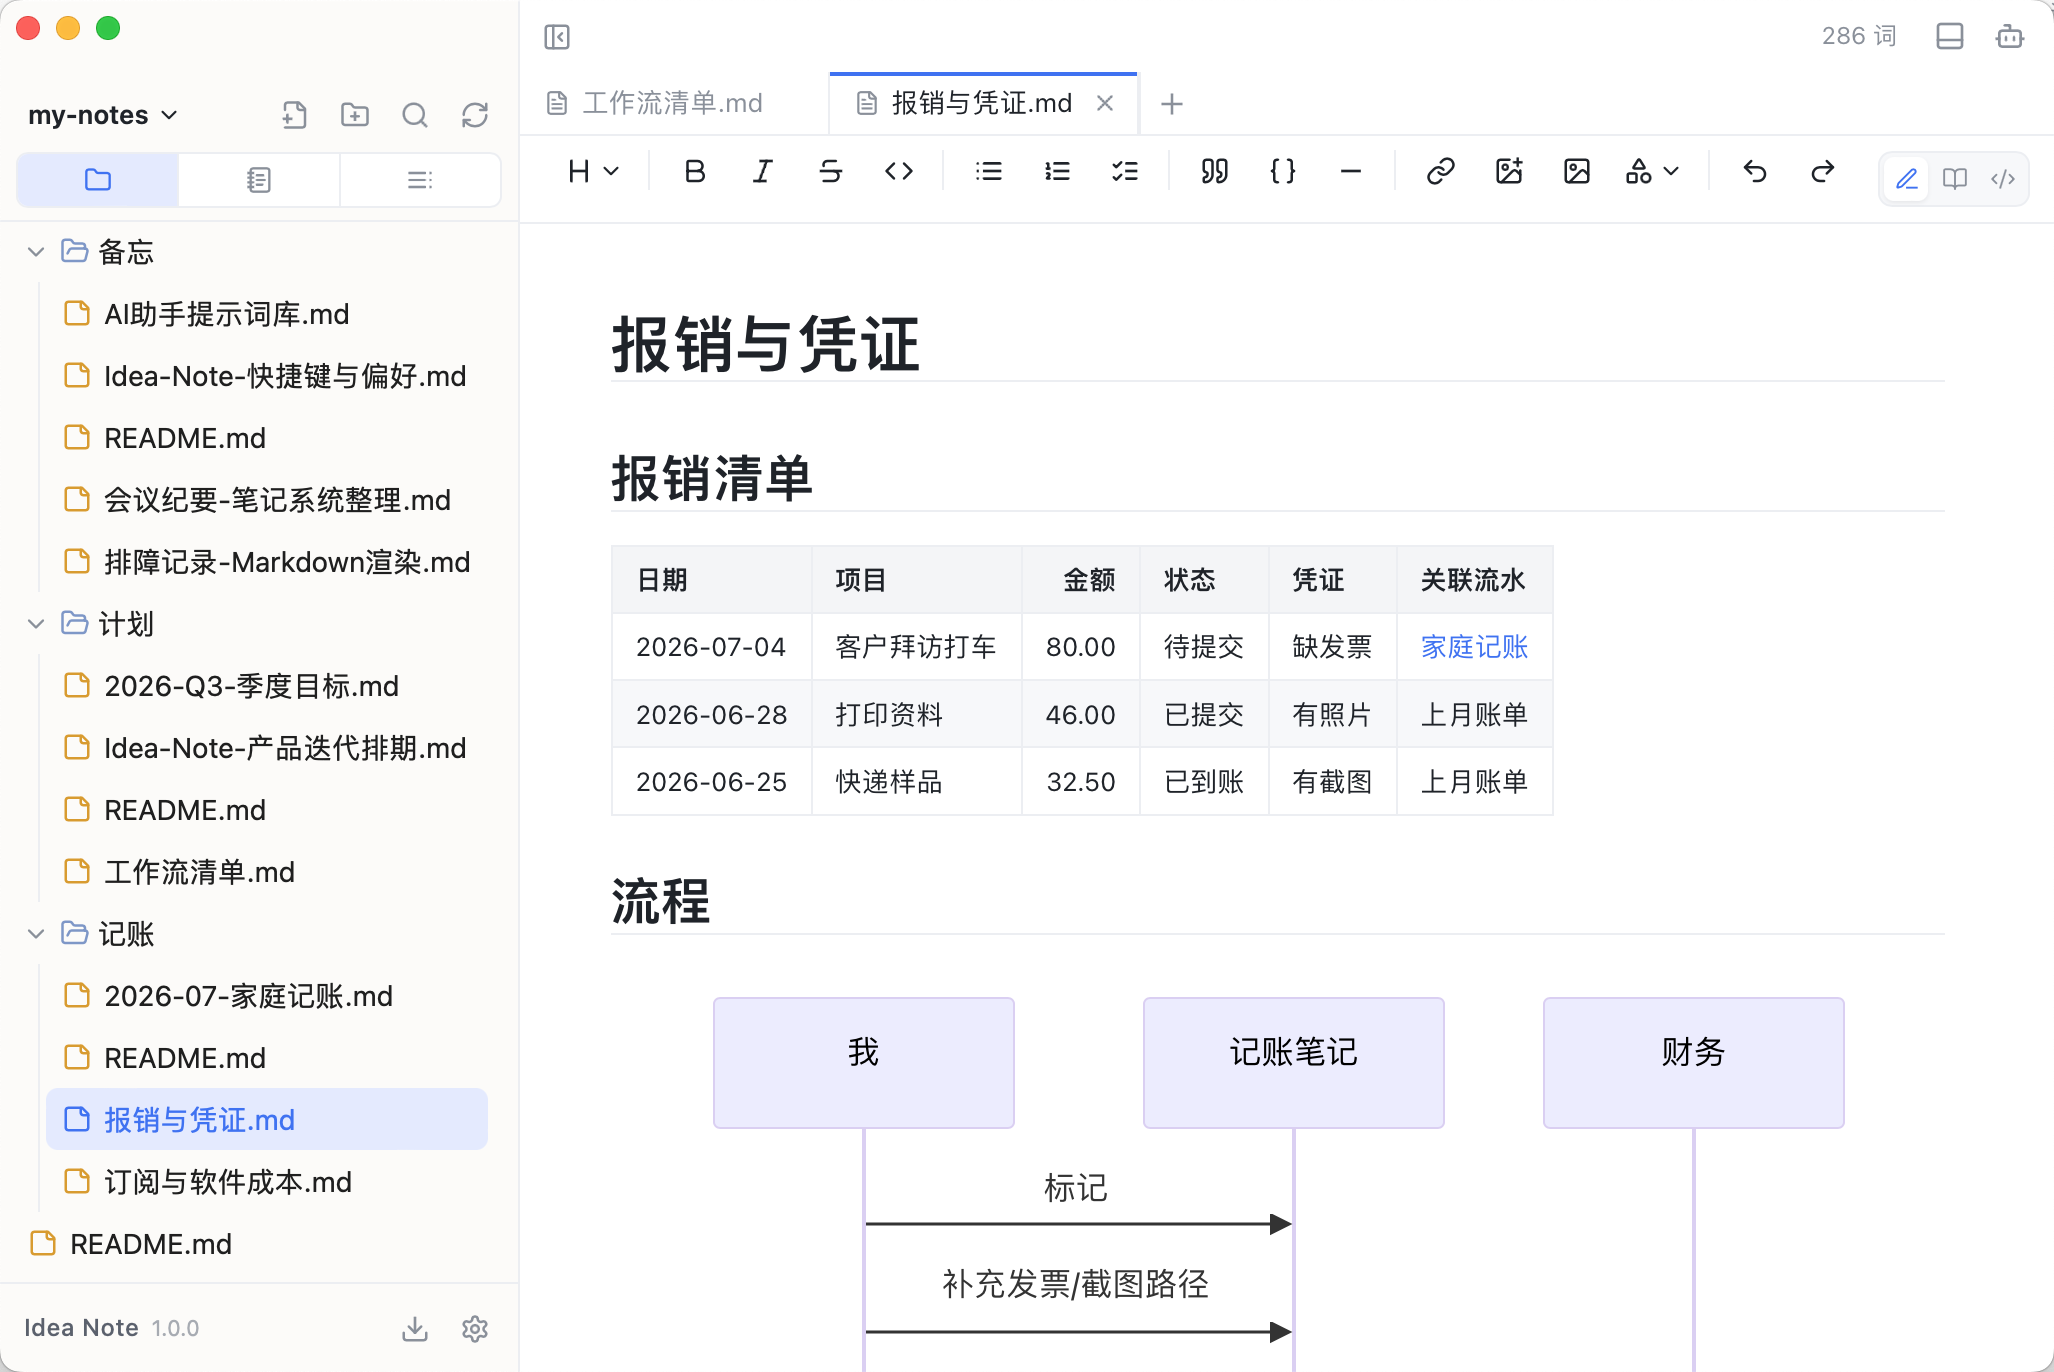
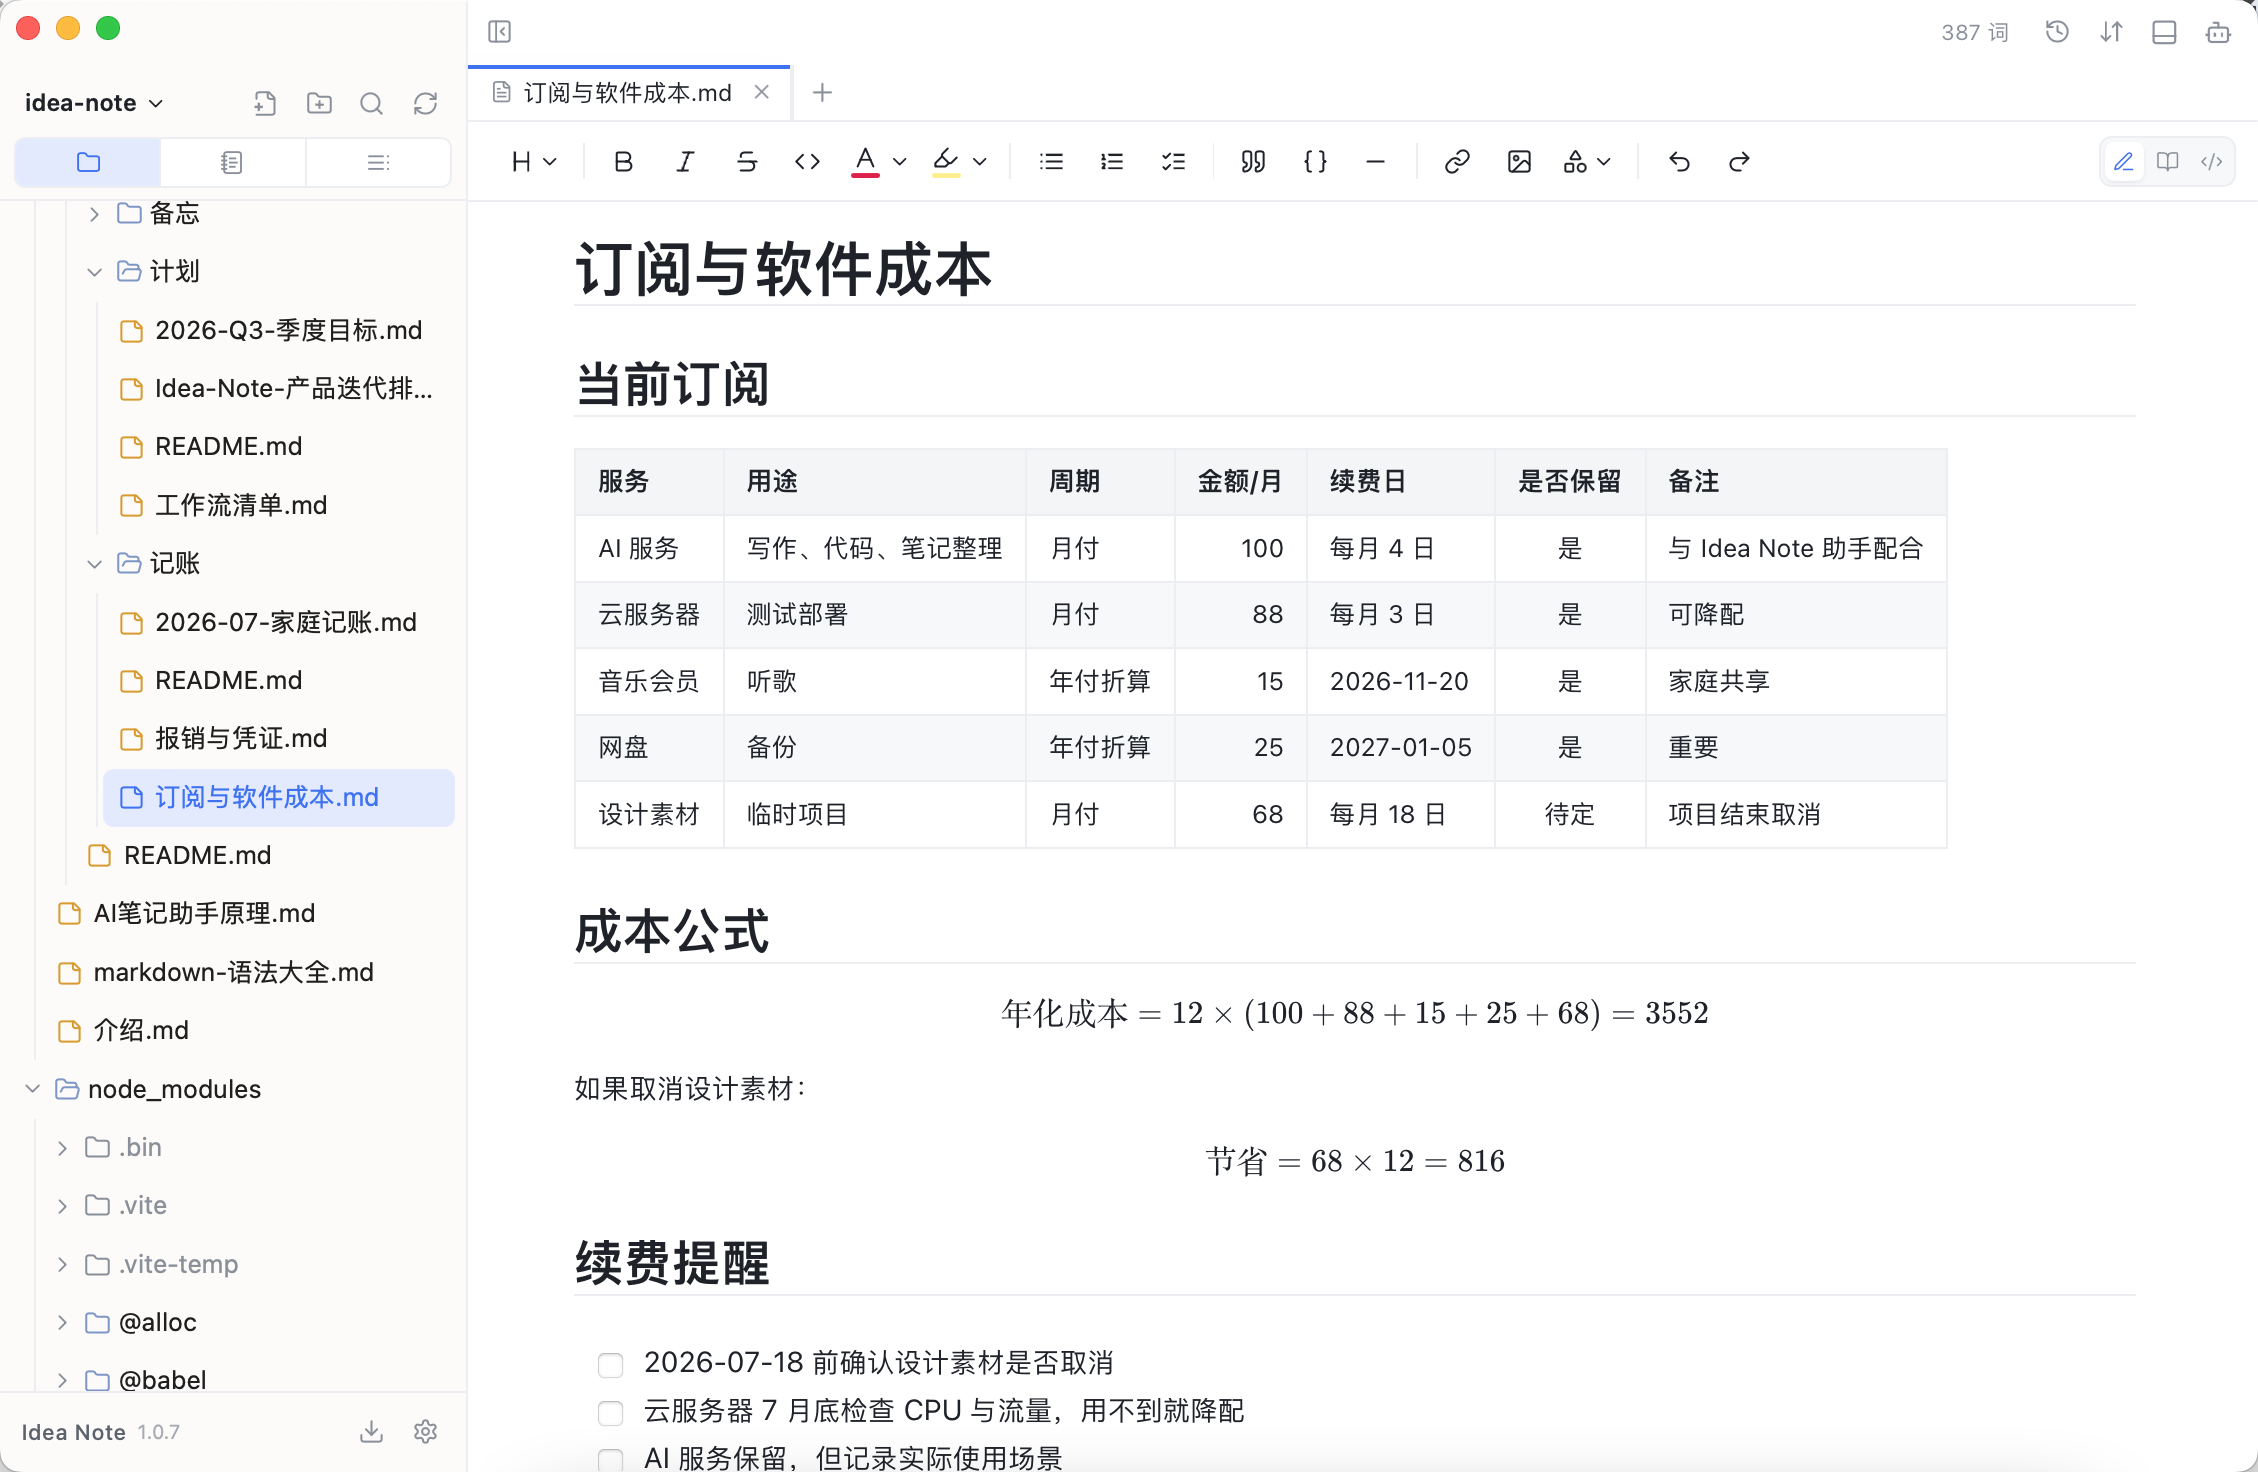
docs: 更新README介绍与示例图片

diff --git a/README.md b/README.md
@@ -14,11 +14,7 @@
   <a href="https://github.com/Liubsyy/idea-note/releases"><img src="https://img.shields.io/github/downloads/Liubsyy/idea-note/total?style=flat-square&logo=github&label=downloads&color=10b981" alt="Total downloads" /></a>
 </p>
 
-**Idea Note** 是一款轻量、简洁的所见即所得 **Markdown** 笔记应用，内置 **AI 笔记助手**，可用自然语言编辑你的笔记，支持**Git远程同步**，兼容 Windows、MacOS 和 Linux 平台。
-
-
-主界面效果图：
-
+**Idea Note** 是一款轻量简洁的文件编辑器，包含 **Markdown** 编辑器、文件编辑器、 **AI 笔记助手**，支持**Git远程同步**，兼容 Windows、MacOS 和 Linux 平台。
 
 
 ![](./doc/assets/sample1.png)
@@ -26,22 +22,15 @@
 
 
 
-AI 笔记助手效果图：
-
-
-![](doc/assets/sample2.png)
-
 
 ## 功能特性
 
-- **AI 笔记助手**：可结合当前笔记进行问答、总结、润色，并通过工具直接读取、搜索、新建、编辑或删除笔记。
-- **Markdown 编辑**：所见即所得实时预览，支持 CommonMark + GFM、KaTeX 公式、Mermaid 图表、HTML / SVG 渲染、源码模式、多标签页和格式工具栏。
-- **文件管理**：除markdown外还可管理其他文件，可作为轻量级项目文件管理器，支持文件树、文件夹浏览、普通文本编辑和图片查看。
-- **笔记管理**：提供笔记模式、大纲和全局搜索，方便整理、定位和回看内容。
+- **Markdown 编辑器**：所见即所得实时预览，支持 CommonMark + GFM、KaTeX 公式、Mermaid流程图、HTML / SVG 渲染、源码模式、多标签页和格式工具栏。
+- **文件管理**：除markdown外还可编辑其他文本文件，可作为轻量级项目文件管理器。
+- **AI 笔记助手**：用自然语言对当前笔记进行问答、总结、润色，并通过工具直接读取、搜索、新建、编辑或删除笔记。
 - **Git 同步与历史**：支持自动提交、远程推拉、本地版本记录、单文件 / 全局历史和 diff 对比。
 - **内置终端**：集成终端，可在应用内直接执行命令。
-- **导出与系统集成**：可导出带书签大纲的 PDF，支持系统级“打开方式”关联常见文本、代码与图片文件。
-- **其他特性**：支持切换主题和自定义主题、自定义字体字号间距。
+- **其他特性**：支持PDF导出和打印、切换主题、自定义字体字号间距。
 
 ## 使用说明
 
@@ -90,6 +79,12 @@ Markdown 语法的完整支持范围可参考 [doc/markdown-语法大全.md](./d
 ### AI 笔记助手
 
 点击标题栏机器人图标打开 AI 笔记助手面板。在设置中添加模型服务即可使用：支持 Anthropic、OpenAI 以及任何兼容两者接口的服务（自定义 Base URL、API Key 和模型 ID），对话中可随时切换模型与思考级别。
+
+
+
+![](./doc/assets/sample1.png)
+
+
 
 助手能看到当前打开的笔记，可以直接问答、总结、润色；它还内置一组笔记工具，可以搜索工作区、读取任意笔记，并新建、编辑、删除笔记。所有修改操作默认"编辑前确认"，逐条审阅后再生效，也可切换为自动执行。会话支持多开并保留历史，随时回看或删除。
 

diff --git a/doc/笔记例子/记账/订阅与软件成本.md b/doc/笔记例子/记账/订阅与软件成本.md
@@ -1,7 +1,5 @@
 # 订阅与软件成本
 
-`#记账` `#订阅` `#软件`
-
 ## 当前订阅
 
 | 服务 | 用途 | 周期 | 金额/月 | 续费日 | 是否保留 | 备注 |
